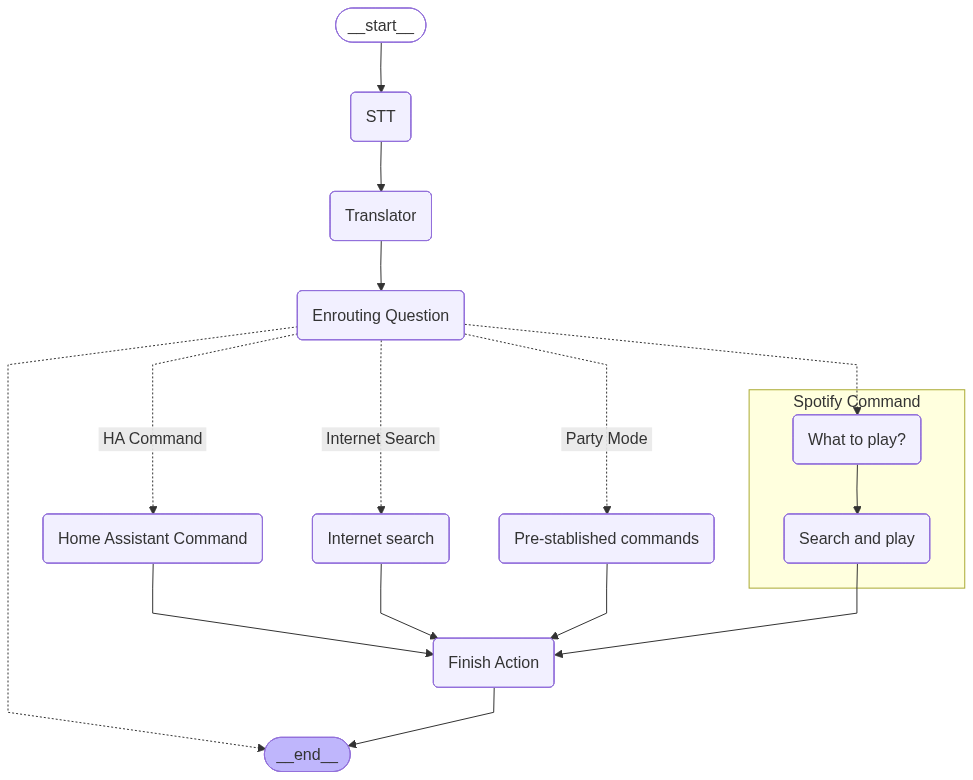
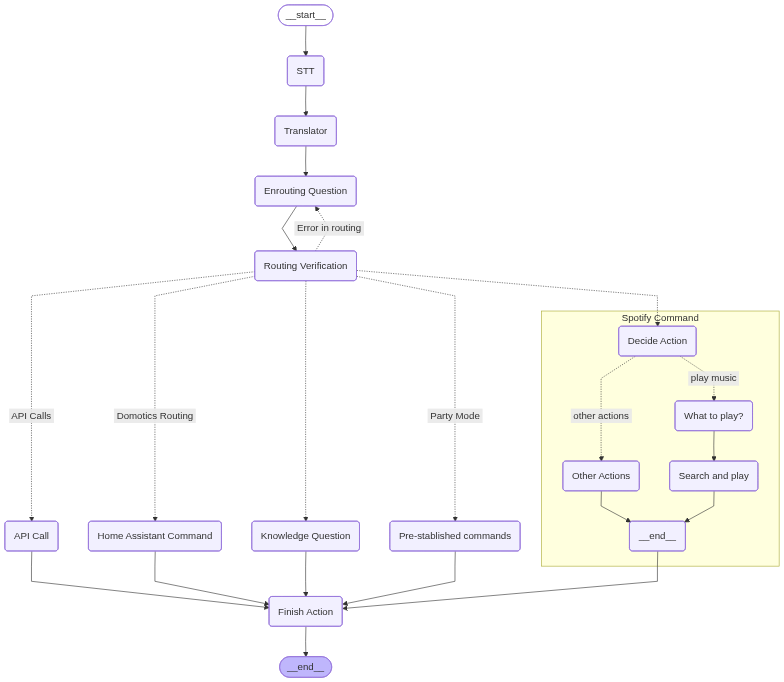
Fixed graph errors. Added new workflow images

diff --git a/src/nabu_agent/workflows/main/workflow.py b/src/nabu_agent/workflows/main/workflow.py
@@ -50,8 +50,10 @@ def build_main_workflow() -> CompiledStateGraph:
         },
     )
     workflow.add_edge("Pre-stablished commands", "Finish Action")
-    workflow.add_edge("Internet search", "Finish Action")
+    workflow.add_edge("Knowledge Question", "Finish Action")
     workflow.add_edge("Spotify Command", "Finish Action")
+    workflow.add_edge("API Call", "Finish Action")
+
     workflow.add_edge("Home Assistant Command", "Finish Action")
     workflow.set_finish_point("Finish Action")
     return workflow.compile()

diff --git a/src/nabu_agent/workflows/spotify_agent/workflow.py b/src/nabu_agent/workflows/spotify_agent/workflow.py
@@ -22,6 +22,7 @@ def build_spotify_workflow() -> CompiledStateGraph:
 
     workflow.add_conditional_edges(
         "Decide Action",
+        decide_action,
         {
             SpotifyAction.OTHER.value: "Other Actions",
             SpotifyAction.PLAY.value: "What to play?",
